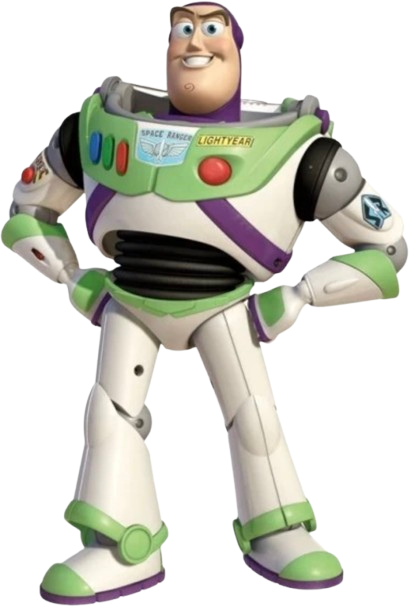
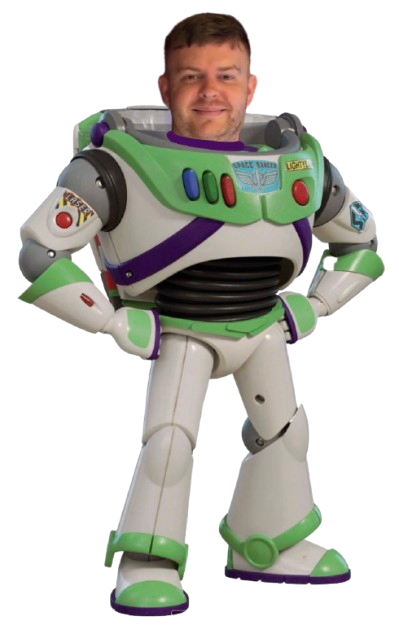
FAQs update 2

diff --git a/index.html b/index.html
@@ -113,34 +113,78 @@
 
   <!-- FAQ SECTION -->
     <section class="faq-section">
-    <details class="faq-item">
+  <details class="faq-item">
         <summary>What should my child bring to a session? <span>+</span></summary>
-        <p>Please ensure your child comes prepared with the following:</p>
+        
+        <p><strong>What to Bring:</strong></p>
         <ul>
-          <li>A labelled water bottle (especially on hot days!)</li>
-          <li>Any required ear defenders (we have a limited supply)</li>
+          <li><strong>Labeled Water Bottle</strong> – Essential for staying hydrated outdoors (especially on warm days!).</li>
+          <li><strong>Ear Defenders</strong> – Please pack these if your child requires them, as our on-site backup supply is limited.</li>
         </ul>
-        <p>Please do not send your child to a session with snacks. We will be providing this and monitoring for allergies. ADD IN ABOUT TECH</p>
+
+        <p><strong>Important Guidelines:</strong></p>
+        <ul>
+          <li><strong>Snacks:</strong> Please do not pack extra snacks. We provide snacks and directly monitor for allergies.</li>
+          <li><strong>Toys &amp; Electronics:</strong> Toys and gadgets should not be brought into a session as they can be a distraction and easily get lost or damaged.</li>
+        </ul>
+
+        <p><em><strong>Changed your mind?</strong> Please speak to a member of our registration team.</em></p>
       </details>
 
-      <details class="faq-item">
-        <summary>How does independant collection work? <span>+</span></summary>
-        <p>If you choose to allow your child to leave independently after the morning session, we will tag their wristband and mark this on the register. At the end of the session, we will then check this and allow them to leave without you needing to come and hand in a collection card. Feel free to change your mind too <3 </p>
+        <details class="faq-item">
+        <summary>How does independent collection work? <span>+</span></summary>
+
+        <p>If you have opted to allow your child to leave independently after the morning session:</p>
+
+        <ul>
+          <li><strong>At Registration:</strong> We will mark this on the register and tag their wristband.</li>
+          <li><strong>At End of Session:</strong> We will check their wristband and allow them to leave without you needing to present a collection card.</li>
+        </ul>
+
+        <p><em><strong>Changed your mind?</strong> Please speak to a member of our registration team.</em></p>
       </details>
 
-    <details class="faq-item">
-        <summary>Question about playlist for losers who don't have spotify? <span>+</span></summary>
+     <details class="faq-item">
+        <summary>What songs are on your worship playlist? <span>+</span></summary>
+
+        <p>Here are the songs on our playlist:</p>
+
+        <ul>
+          <li><strong>Tell All My Friends</strong> – SEU Worship, Sydney James</li>
+          <li><strong>FREE! (Live)</strong> – SEU Worship, David Ryan Cook</li>
+          <li><strong>My Lighthouse</strong> – Rend Collective</li>
+          <li><strong>Who You Say I Am</strong> – Hillsong Kids</li>
+          <li><strong>Way Maker</strong> – Leeland</li>
+          <li><strong>Touch Of Heaven (Live)</strong> – Hillsong Worship, Aodhán King</li>
+        </ul>
+
+         <p><em><strong>If you have Spotify, you can click to listen by following the 'Playlist' button above!</strong></em></p>
+
+      </details>
+
+       <details class="faq-item">
+        <summary>Question about SEN? <span>+</span></summary>
         <p>Info here</p>
       </details>
 
       <details class="faq-item">
-        <summary>How could I join the 7-10s Kids Team for 2027? <span>+</span></summary>
-        <p> Speak to Yeomans</p>
+        <summary>How can I join the 7–10s Kids Team for 2027? <span>+</span></summary>
+
+        <p>We would love to speak to you about joining the team next year! Serving on the 7–10s Kids Team is a fantastic opportunity to invest in our children's faith and help them grow in their understanding of God (<em>…and you’ll receive a free or discounted ticket to Awaken 2027!</em>).</p>
+
+        <p>We have a range of volunteer opportunities, from serving as a group leader or supporting our media and tech teams. To be eligible, you will need to pass an <strong>Enhanced DBS check</strong> and provide a <strong>reference from your church leader</strong>.</p>
+
+        <p>For more information and to get signed up, please ask to speak to <strong>Jacob Yeomans</strong>.</p>
       </details>
 
-      <details class="faq-item">
+     <details class="faq-item">
         <summary>Who do I contact if I have a question? <span>+</span></summary>
-        <p>bother JACOB YEOMANS and nobody else. Going to include a picture.</p>
+
+        <p>This team and venue is led by <strong>Jacob Yeomans</strong>, Kids Pastor of IKON Church.</p>
+
+        <p>Please speak to Jacob or share your query with our registration team and we’ll be able to direct you.</p>
+
+        <img src="buzz.png" alt="Jacob Yeomans as Buzz Lightyear" class="faq-profile-img">
       </details>
 
     </section>

diff --git a/style.css b/style.css
@@ -491,3 +491,11 @@ body {
   object-fit: contain;
   vertical-align: middle;
 }
+.faq-profile-img {
+    display: block;
+    width: auto;
+    max-width: 85%;
+    max-height: 45vh; /* Takes up around half the mobile screen height */
+    margin: 16px auto 8px auto;
+    object-fit: contain;
+}
